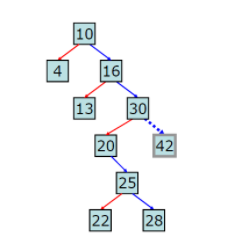
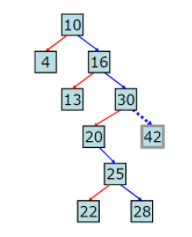
lecture 4 그림 수정, 시각화 수정

Changed region(s): [[0.1562, 0.0295, 0.875, 0.9451]]

diff --git a/_posts/2021-04-07-programming-algorithm-lecture5.md b/_posts/2021-04-07-programming-algorithm-lecture5.md
@@ -10,6 +10,7 @@ comments: true
 # 5. Scheduling, Binary Search Treesd
 - Runway reservation system
 - Binary Search Trees
+- Tree traversal & Order
 
 <br/>
 
@@ -46,14 +47,14 @@ comments: true
 
 # Binary search Tree
 
-- Binary search와 Linked list을 결합한 자료구조
+- **Binary search와 Linked list을 결합한 자료구조**
 - Binary search의 효율적인 탐색과 data insert/delete를 효율적으로 하기 위한 자료구조
 
 Binary Search Tree (BST) 예시
 ![BST](https://swha0105.github.io/assets/intro_algorithm/image/lec5_bst.png)  
-- node x에 대해 key(x), left(x), right(x), parent(x) 가 존재한다.
-- 이때, parent(x), left(x), right(x) 는 실제 값이 아닌, Pointer를 의미 한다. (Heap 과 다른점)
-- node x을 기준으로 왼쪽아래에 존재하는 subtree에 모든 key값 y에 대해 key(y) < key(x)는 항상 만족한다.
+- node x에 대해 `left(x)`, `right(x)`, `parent(x)` 가 존재한다.
+- 이때, parent(x), left(x), right(x) 는 실제 값이 아닌, **Pointer를 의미 한다.** (Heap 과 다른점)
+- node x을 기준으로 왼쪽아래에 존재하는 **subtree에 모든 key값 y에 대해 key(y) < key(x)는 항상 만족한다.**
 
 ## Operation
 
@@ -77,13 +78,13 @@ Time Complexity: O(h)  **(log n < h < n)**
 |:--:| 
 | [출처](https://ratsgo.github.io/data%20structure&algorithm/2017/10/22/bst/) |
 
-위 그림에서 key값이 20인 노드를 삭제 한다고 가정해보자.  
+위 그림에서 key값이 16인 노드를 삭제 한다고 가정해보자.  
 이때, Tree 구조를 만족하러면 아래에 있는 특정 값이 삭제된 위치를 대체하여야한다. 어떤 값이 좋을까?  
   
-먼저, Node(key = 20) 왼쪽에 있는 노드들 중에 가장 큰 값을 `predecessor`라고 정의한다.  
+먼저, Node(key = 16) 왼쪽에 있는 노드들 중에 가장 큰 값을 `predecessor`라고 정의한다.  
 또, 오른쪽에 있는 노드들 중 가장 작은 값을 `successor` 라고 정의한다.  
 
-이 두개의 값들 중 아무 값이나 선택하여 삭제된 노드의 위치를 대체하면 된다. 아래 그림은 `successor`인 Node(key =20)이 대체한 그림이다.
+이 두개의 값들 중 아무 값이나 선택하여 삭제된 노드의 위치를 대체하면 된다. 아래 그림은 Node (key=16)을 `successor`인 Node(key =20)이 대체한 그림이다.
 
 |![BST_delete 2](https://swha0105.github.io/assets/intro_algorithm/image/lec5_bst_delete_2.png)  
 |:--:| 
@@ -93,9 +94,10 @@ Time Complexity: O(h)  **(log n < h < n)**
 
 <br/>
 
-**3. find value and find_min:**
-
-Heap과 다르게 index가 정의 되어있지 않다. 따라서 root node에서 부터 left(x) pointer를 따라 트리의 높이까지 따라 내려가야한다.  
+**3. find value and find min:**
+Heap과 다르게 index가 정의 되어있지 않고, 모든 값들이 **포인터**로 연결되어있다.    
+따라서 root node에서 부터 left(x) pointer를 따라 트리의 높이까지 따라 내려가야한다.    
+  
 Time Complexity: O(h)  **(log n < h < n)**  
 
 <br/>
@@ -112,8 +114,8 @@ Balanced Tree가 아니기 때문에 트리의 높이인 h값이 n값과 같을 
 # Tree traversal
 이 내용은 강의에 포함되어있지 않지만 중요한 내용이라 이 [블로그](https://www.google.com/search?q=traversal+order&rlz=1C1SQJL_koKR840KR840&oq=traversal+order&aqs=chrome..69i57.140j0j7&sourceid=chrome&ie=UTF-8)를 참조 하여서 정리한다.
 
-- Traversal(순회)는 트리의 모든 노드들을 visit하는 것을 의미.
-- Preorder(전위), Inorder(중위), postorder(후위)가 있다. 
+- **Traversal(순회)는 트리의 모든 노드들을 접근하는 것을 의미.**
+- `Preorder(전위)`, `Inorder(중위)`, `postorder(후위)`가 있다. 
 
 
 |![Tree_ordering](https://swha0105.github.io/assets/intro_algorithm/image/lec_5_order.png)  
